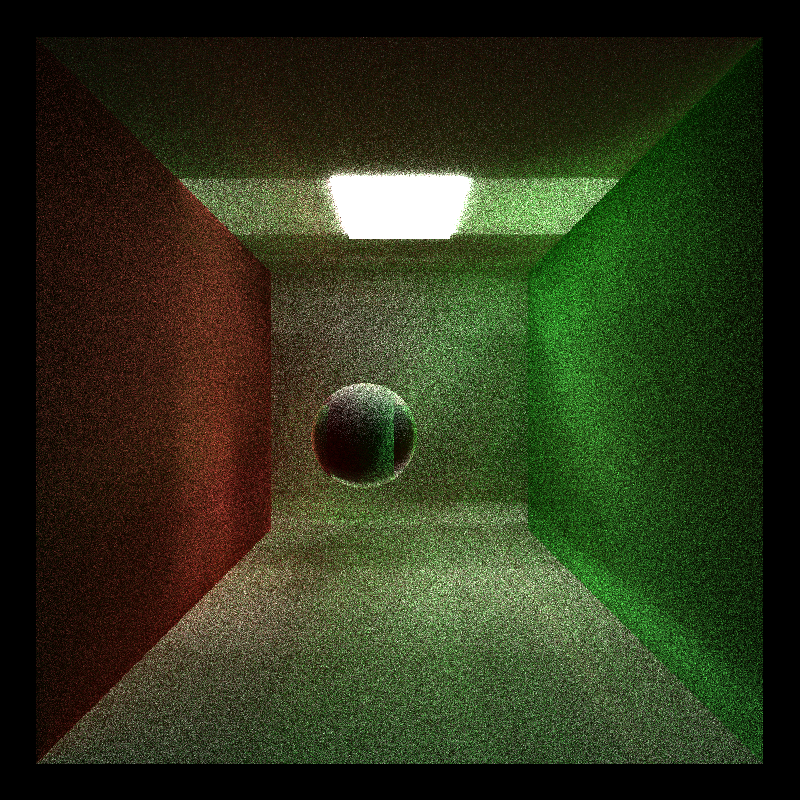
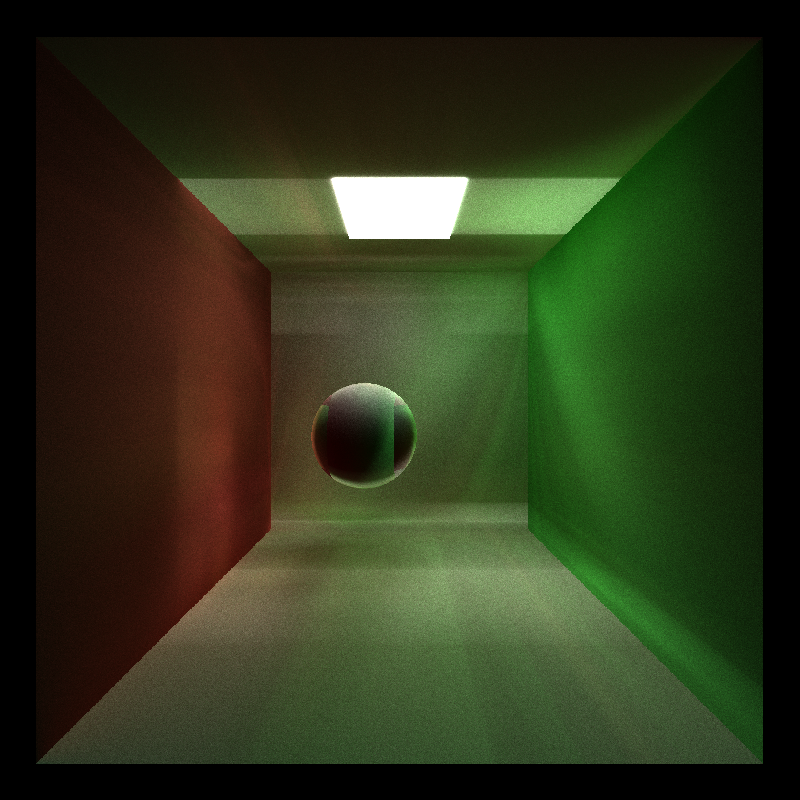
better basic image

diff --git a/src/interactions.h b/src/interactions.h
@@ -2,7 +2,7 @@
 
 #include "intersections.h"
 
-#define epsilon  1e-2f
+#define epsilon  1e-1f
 
 // CHECKITOUT
 /**
